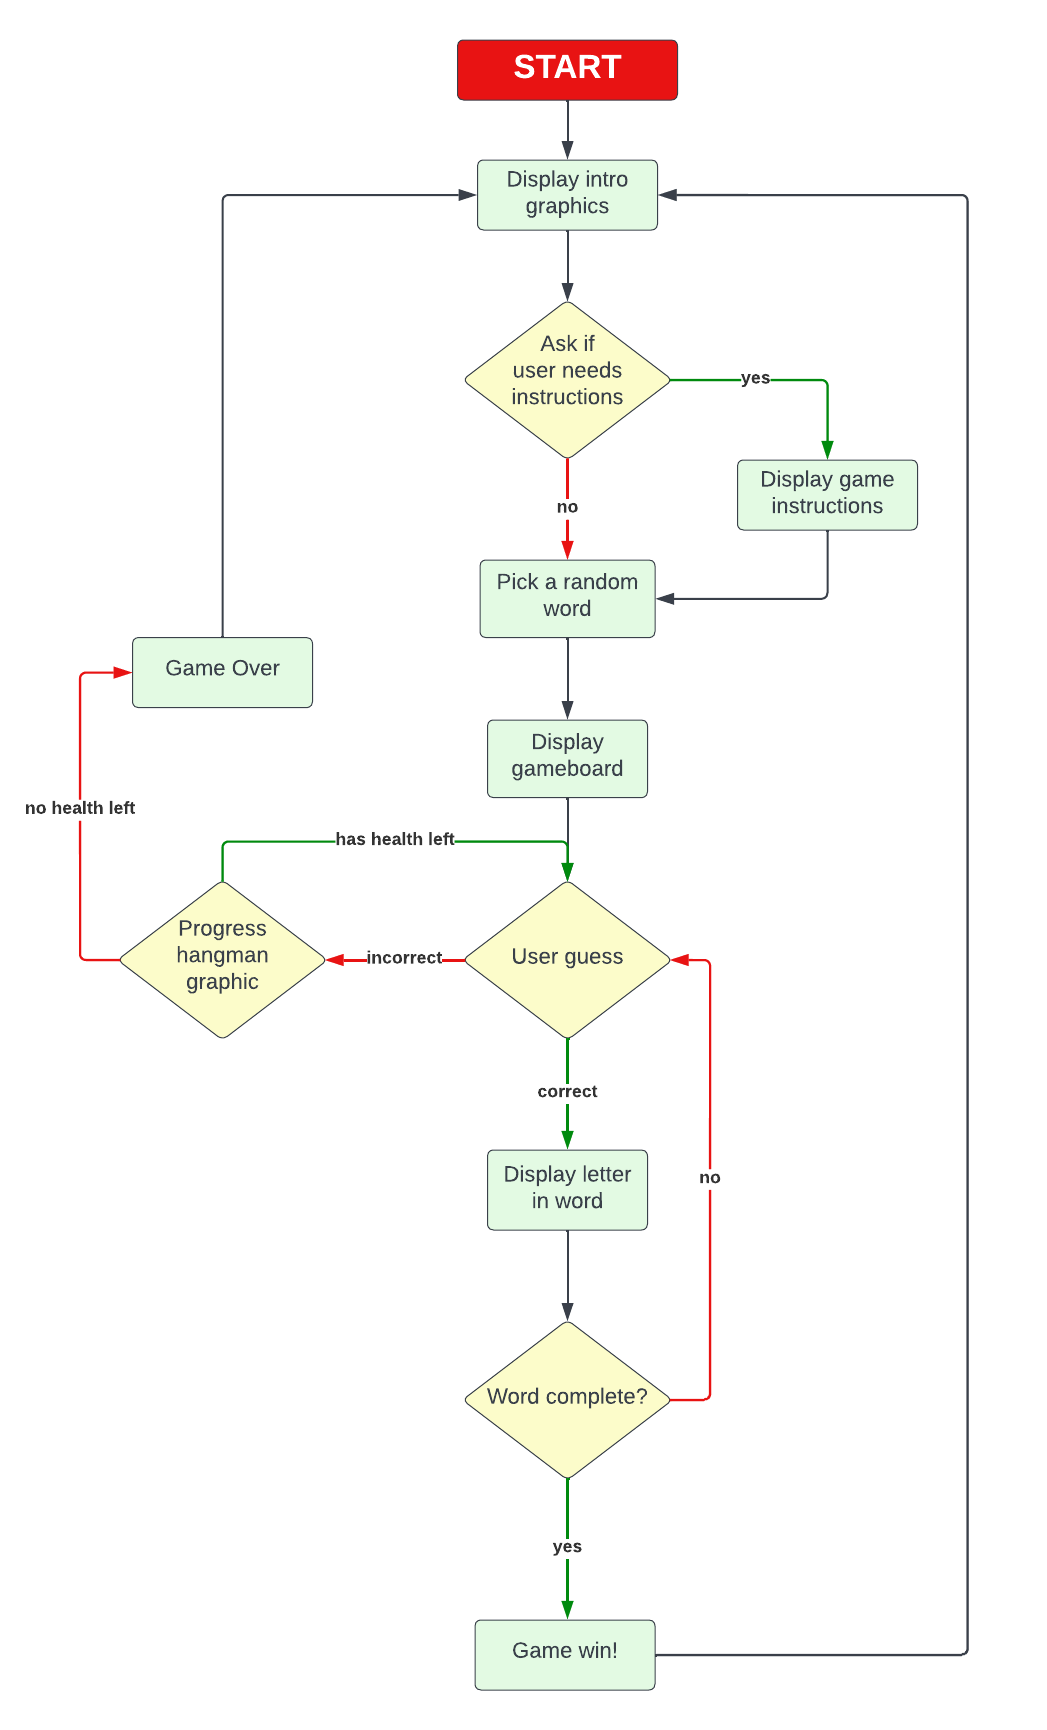
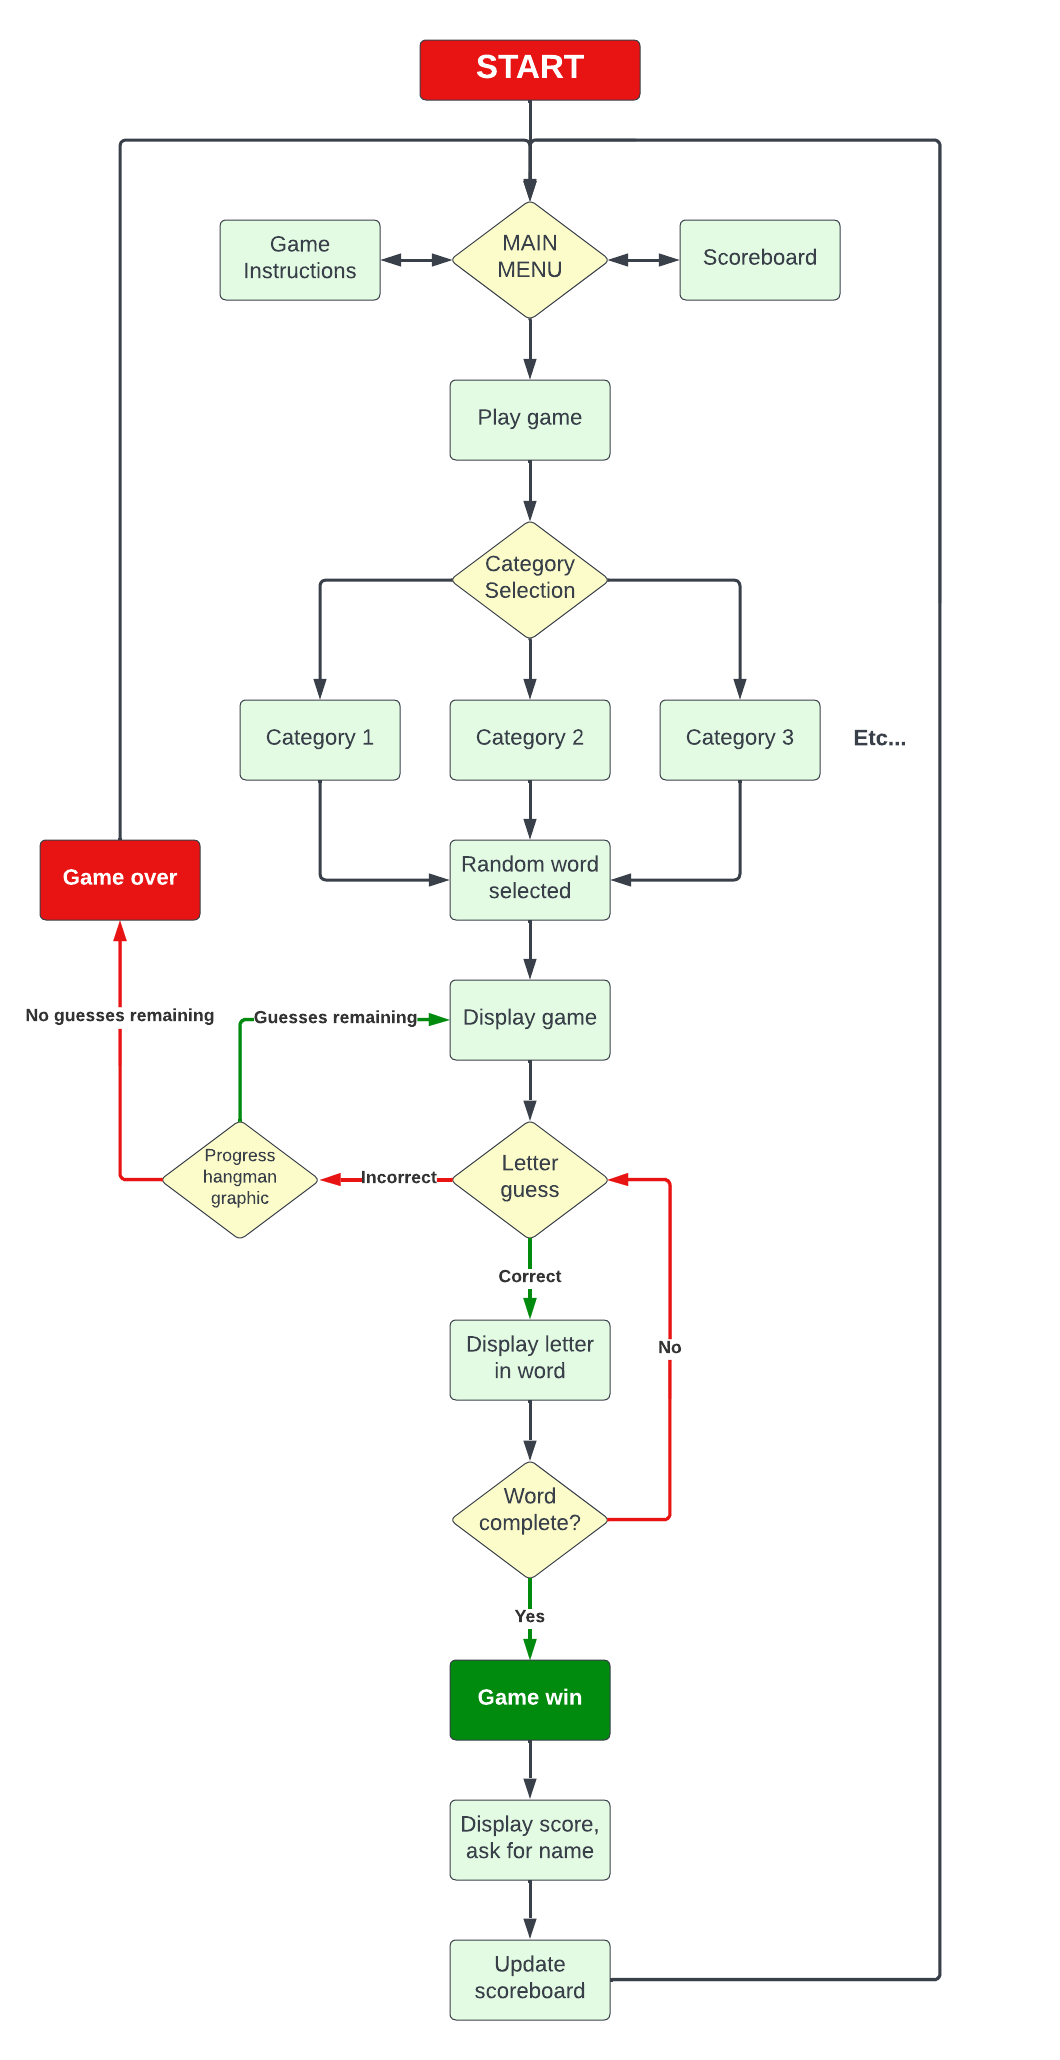
Add function flow chart to readme

diff --git a/run.py b/run.py
@@ -208,7 +208,7 @@ def clear_terminal():
     '''
     # From:
     # https://stackoverflow.com/questions/2084508/clear-terminal-in-python
-    
+
     os.system('cls' if os.name == 'nt' else 'clear')
 
 

diff --git a/README.md b/README.md
@@ -15,7 +15,7 @@ Hangman is my third milestone project required to complete my Diploma in Full St
 
 The goal of the game is to guess the mystery word one letter at a time. The time taken, the number of incorrect guesses and word length will determine their score and their position on the scoreboard.
 
-[Back to top 🔺](#)
+[Back to top 🔺](#hangman---python-terminal-game)
 
 ## The User Experience
 
@@ -32,7 +32,7 @@ As the designer I want:
 - Users to meet their goals (above).
 - The game to be functional and without errors.
 
-[Back to top 🔺](#)
+[Back to top 🔺](#hangman---python-terminal-game)
 
 ## Design and Flow
 
@@ -41,11 +41,15 @@ As the designer I want:
 
 ![Flow chart](https://raw.githubusercontent.com/paulio11/project-3/main/documentation/flowchart.png)
 
+### Flow Chart with Function Names and Variables
+
+![Flow chart with Functions and Variables](https://raw.githubusercontent.com/paulio11/project-3/main/documentation/flowchart-functions.png)
+
 ### Titles and Headings
 - The titles for the scoreboard and category selection screens were made using the [pyfiglet](https://pypi.org/project/pyfiglet/0.7/) package.
 - The game over and hangman titles were made using [Text ASCII Art Generator](https://patorjk.com/software/taag/).
 
-[Back to top 🔺](#)
+[Back to top 🔺](#hangman---python-terminal-game)
 
 ## Features
 ### User Input and Feedback
@@ -114,7 +118,7 @@ def draw_table(scores, heading, heading2):
         rank += 1
 ```
 
-[Back to top 🔺](#)
+[Back to top 🔺](#hangman---python-terminal-game)
 
 ## The Game
 
@@ -218,4 +222,83 @@ elif GAME_OVER and GAME_WIN is False:
 
 The function `bottom_input` is then called once again to return the user to the main menu.
 
-[Back to top 🔺](#)
+### Winning the Game
+There are two ways to trigger a game win state. If the user guesses the game word in its entirety, or if there are no underscores left in the `HIDDEN_WORD` variable. Both of these outcomes will call the `game_win_trigger()` function.
+
+```
+elif guess == GAME_WORD:
+            HIDDEN_WORD = GAME_WORD
+            game_win_trigger()
+```
+```
+if '_' not in HIDDEN_WORD:
+        game_win_trigger()
+```
+
+The `game_win_trigger()` function will assign the variables `GAME_WIN` and `GAME_OVER` to `True`, set a variable called `END_TIME` (used to calculate the score later on) and call the `game_display()` function.
+
+```
+def game_win_trigger():
+    END_TIME = time.time()
+    GAME_WIN = True
+    GAME_OVER = True
+    game_display(WIN_HEADER)
+```
+
+When the game screen is reprinted with the variable `GAME_WIN` as `True` two functions are called, first `calculate_score()` and then `update_scoreboard()`.
+
+### Calcuating the Score
+The `calculate_score()` function has three parts. First, the variable `SECONDS` is assigned the value of `END_TIME` subtracted from `START_TIME` to get the seconds taken to win the game. The python [math](https://docs.python.org/3/library/math.html) module is used to round down the value to a whole number.
+
+```
+SECONDS = math.floor(END_TIME - START_TIME)
+```
+
+Then the score is calculated using an algorithm that takes into account the length of the word, the number of player lives remaining and the time taken. This is then rounded up using the `math.ceil()` function.
+
+```
+SCORE = math.ceil((len(GAME_WORD) * 500) + (PLAYER_LIVES * 1000) / SECONDS)
+```
+
+The values assigned have very little thought and design put into them, but basically, this makes longer words solved with a low number of incorrect guesses in a short time score higher than short words solved with many incorrect guesses in a longer amount of time. As the game time progresses the effect of the time taken has a diminishing effect on the final score.
+
+### End of the Game
+Just for user feedback purposes, once the scoreboard has been updated the user is presented with a simple screen thanking them for playing, this includes the name they provided previously and the option to return to the main menu.
+
+```
+def end_screen():
+    print(f'Thank you for playing {NAME}!')
+    print('Your name and score have been uploaded.')
+```
+
+[Back to top 🔺](#hangman---python-terminal-game)
+
+## Common Features Throughout
+To stop me from repeating myself in this documentation and my code, several features have been present throughout the program.
+
+### Printing Center Aligned Text
+I created a function called `cprint()` to center align text. This was to help with line length issues. 
+
+```
+def cprint(text):
+    terminal_width = 80
+    print(text.center(terminal_width))
+```
+
+### "Loading" Text
+I have loading text where necessary to give the user feedback when the following takes place:
+- Loading either scoreboard
+- Updating the scoreboard
+- Retrieving the word list after category selection
+
+All three of these require information to be pushed to or pulled from the spreadsheet and can take a few seconds. The loading text reassures the user something is happening.
+
+### Clearing the Terminal
+A function called `clear_terminal()` is called throughout to clear the screen before printing what is required at that point in the program. This was essential to make sure all user input is on the same line - a key part of my design. This was a suggestion from [Stack Overflow](https://stackoverflow.com/questions/2084508/clear-terminal-in-python).
+
+```
+def clear_terminal():
+	os.system('cls' if os.name == 'nt' else 'clear')
+```
+
+[Back to top 🔺](#hangman---python-terminal-game)
